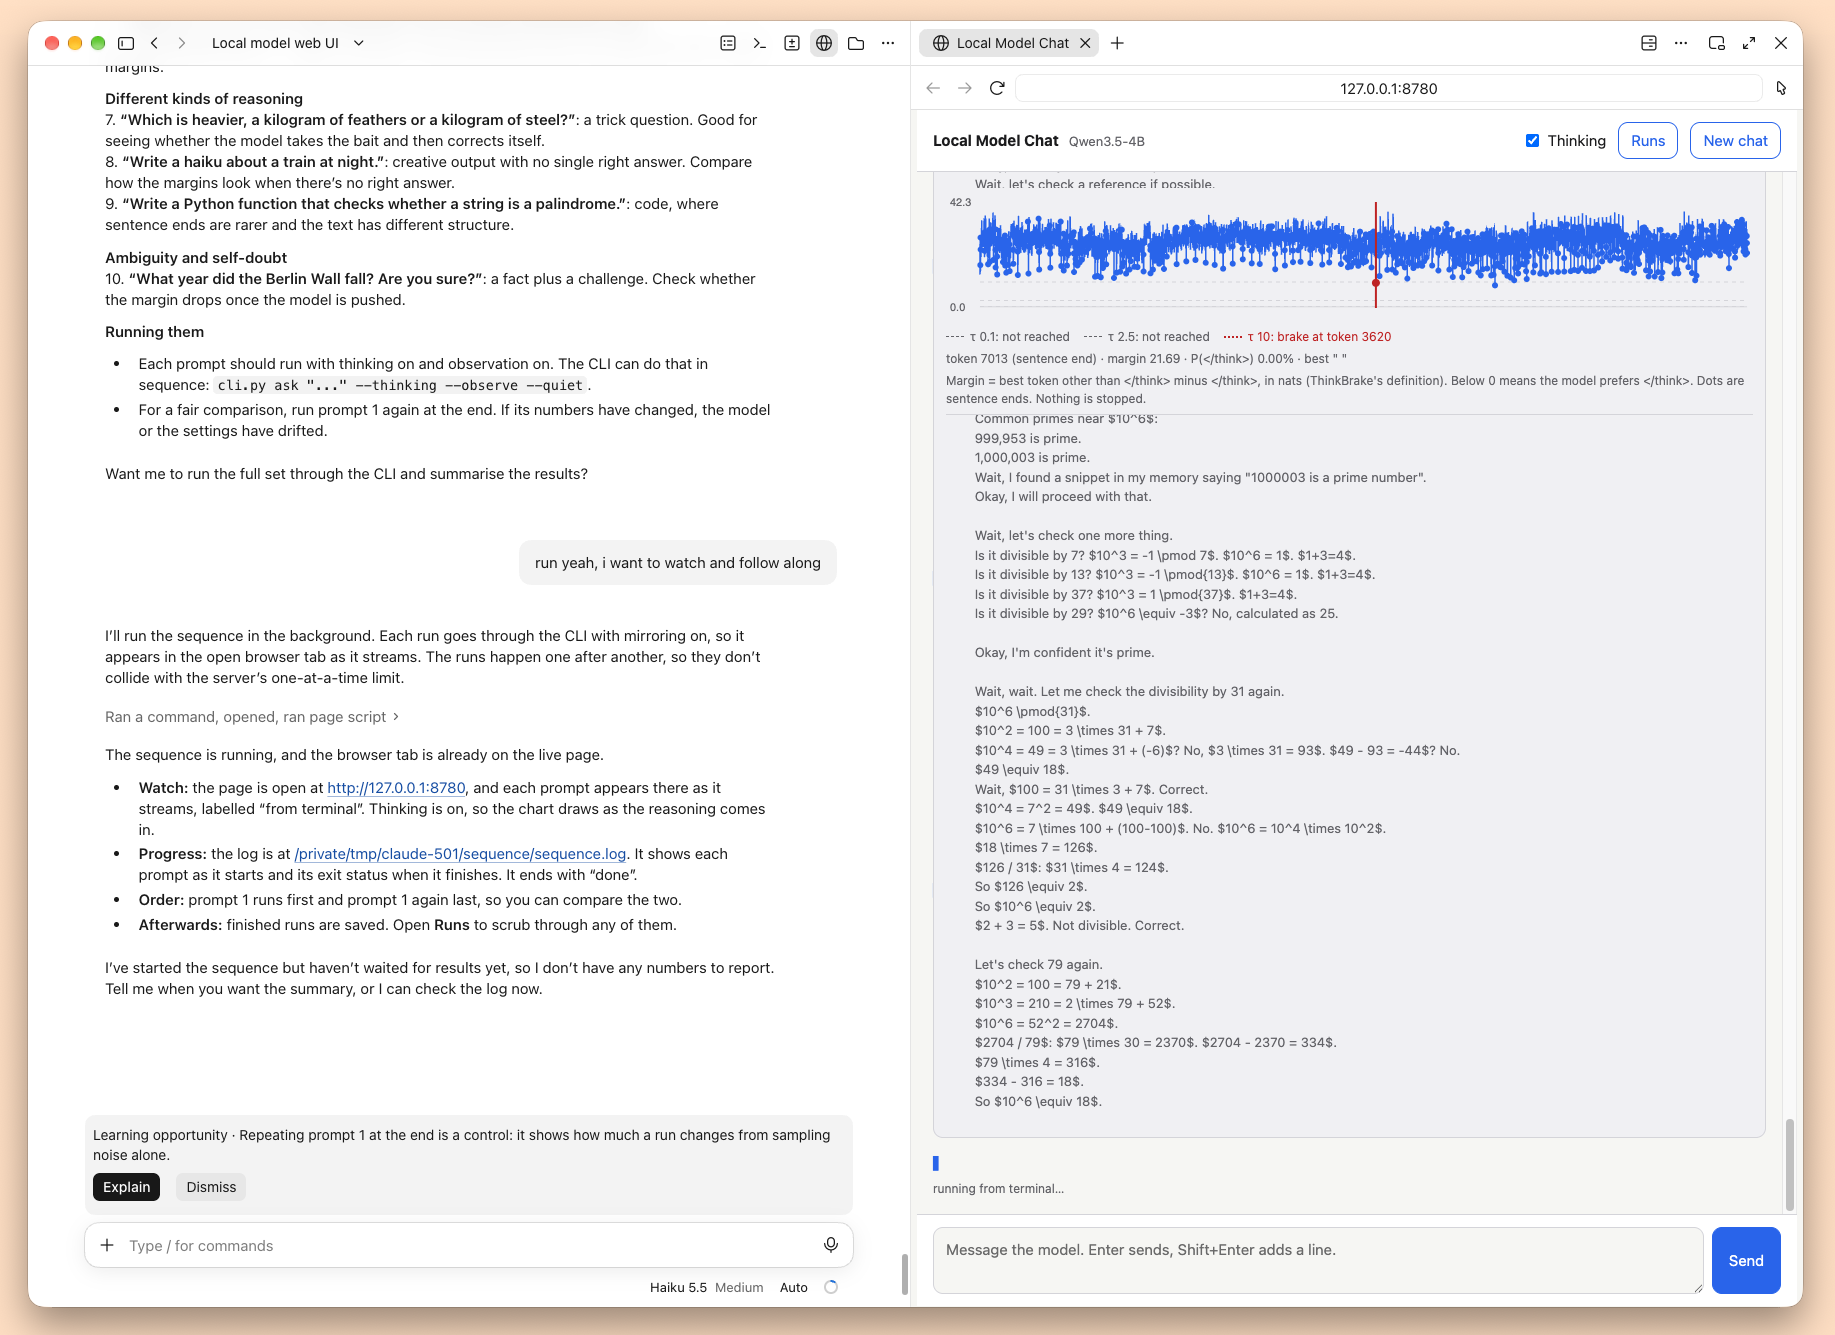
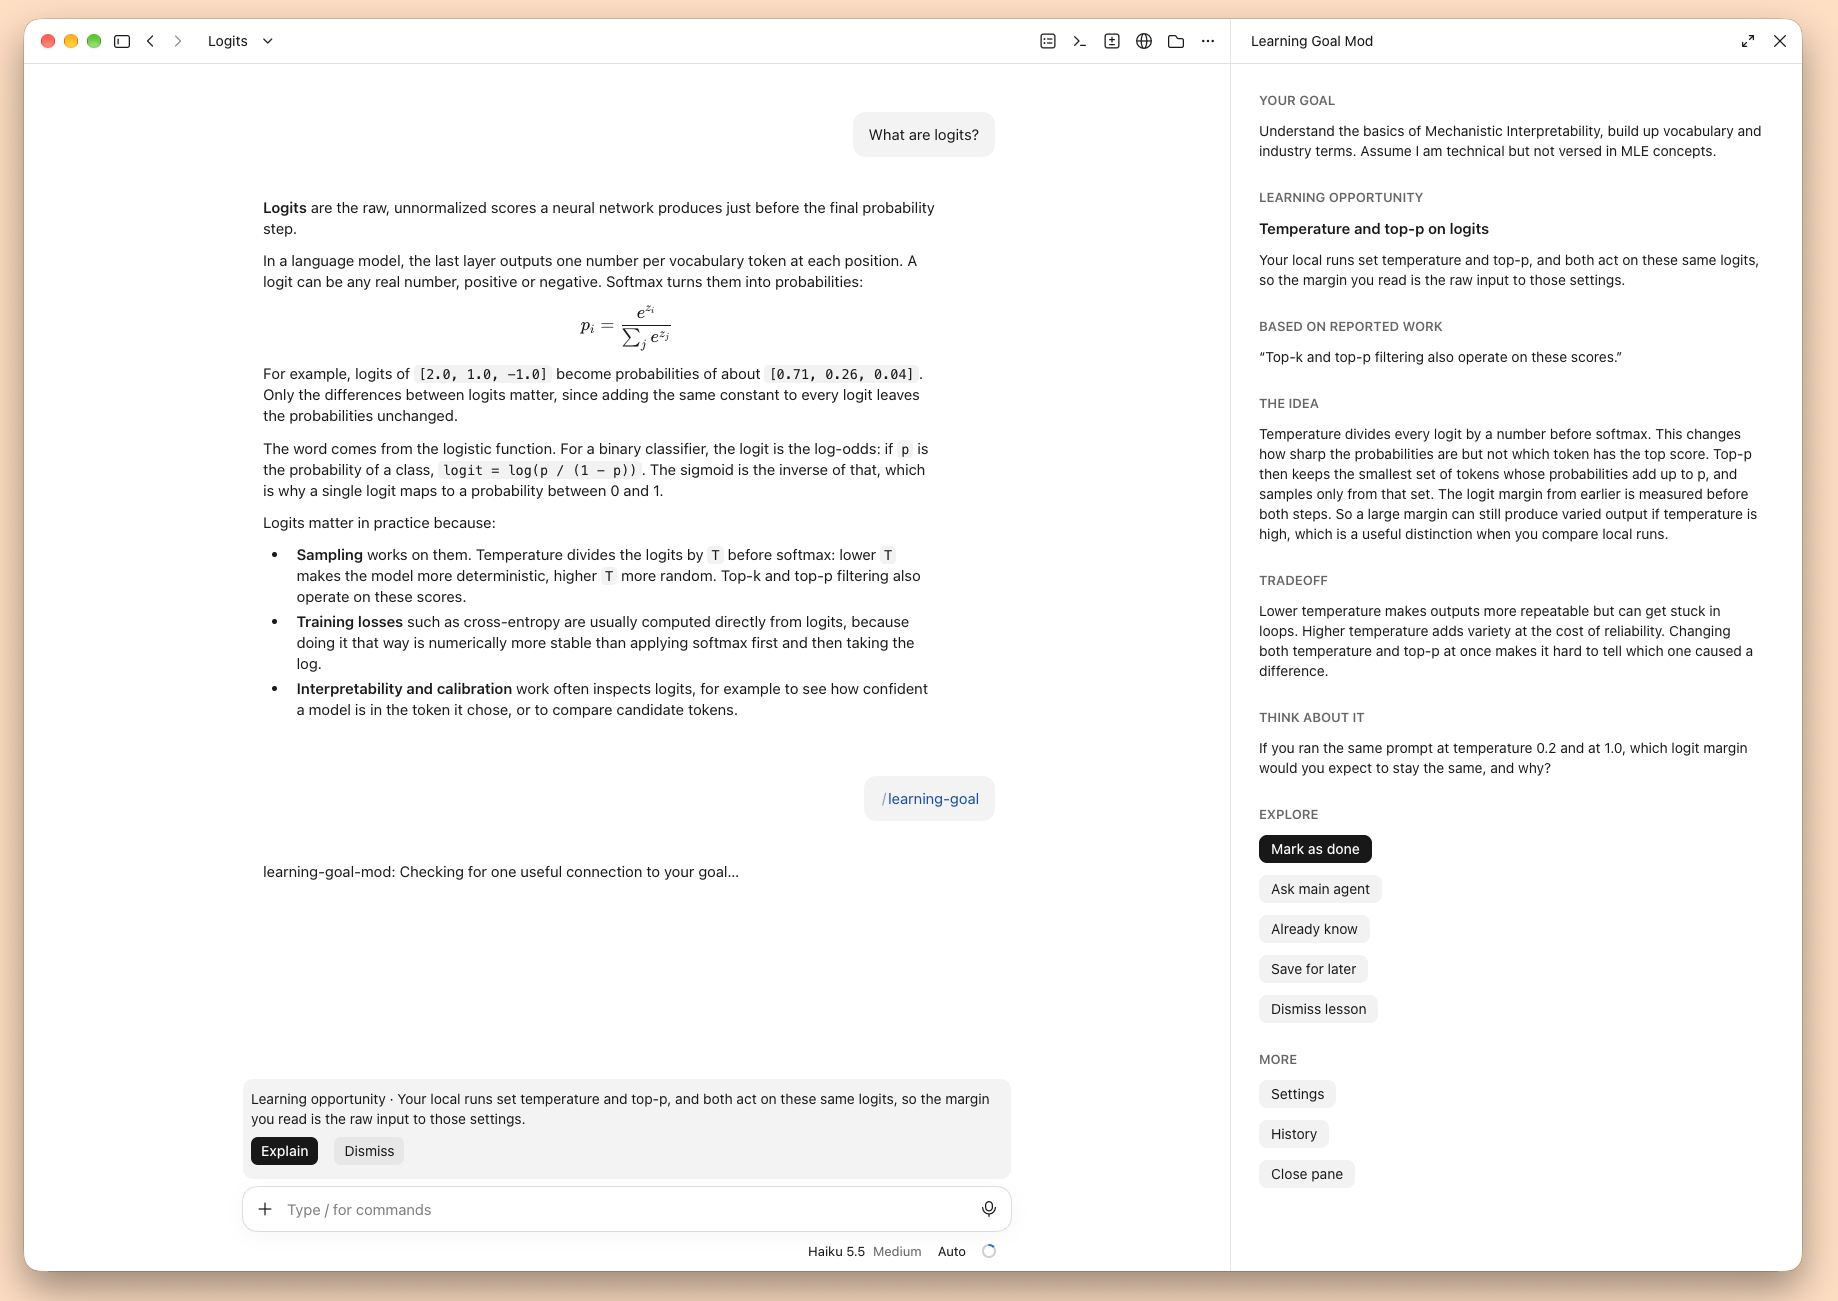
Update README screenshot

diff --git a/README.md b/README.md
@@ -8,9 +8,9 @@ The mod runs in local Claude Code sessions, including the Code tab in Claude Des
 
 ## Learning Goal Mod in action
 
-An invitation appears above the prompt when the mod finds a connection between the current work and your goal:
+An invitation appears above the prompt when the mod finds a connection between the current work and your goal. Select **Explain** to explore the lesson alongside your conversation:
 
-![A Claude Code session with a Learning Goal Mod invitation above the prompt](assets/learning-goal-in-action.png)
+![A Claude Code session with a learning invitation above the prompt and its explanation in the Learning Goal Mod pane](assets/learning-goal-in-action.png)
 
 ## Install
 
